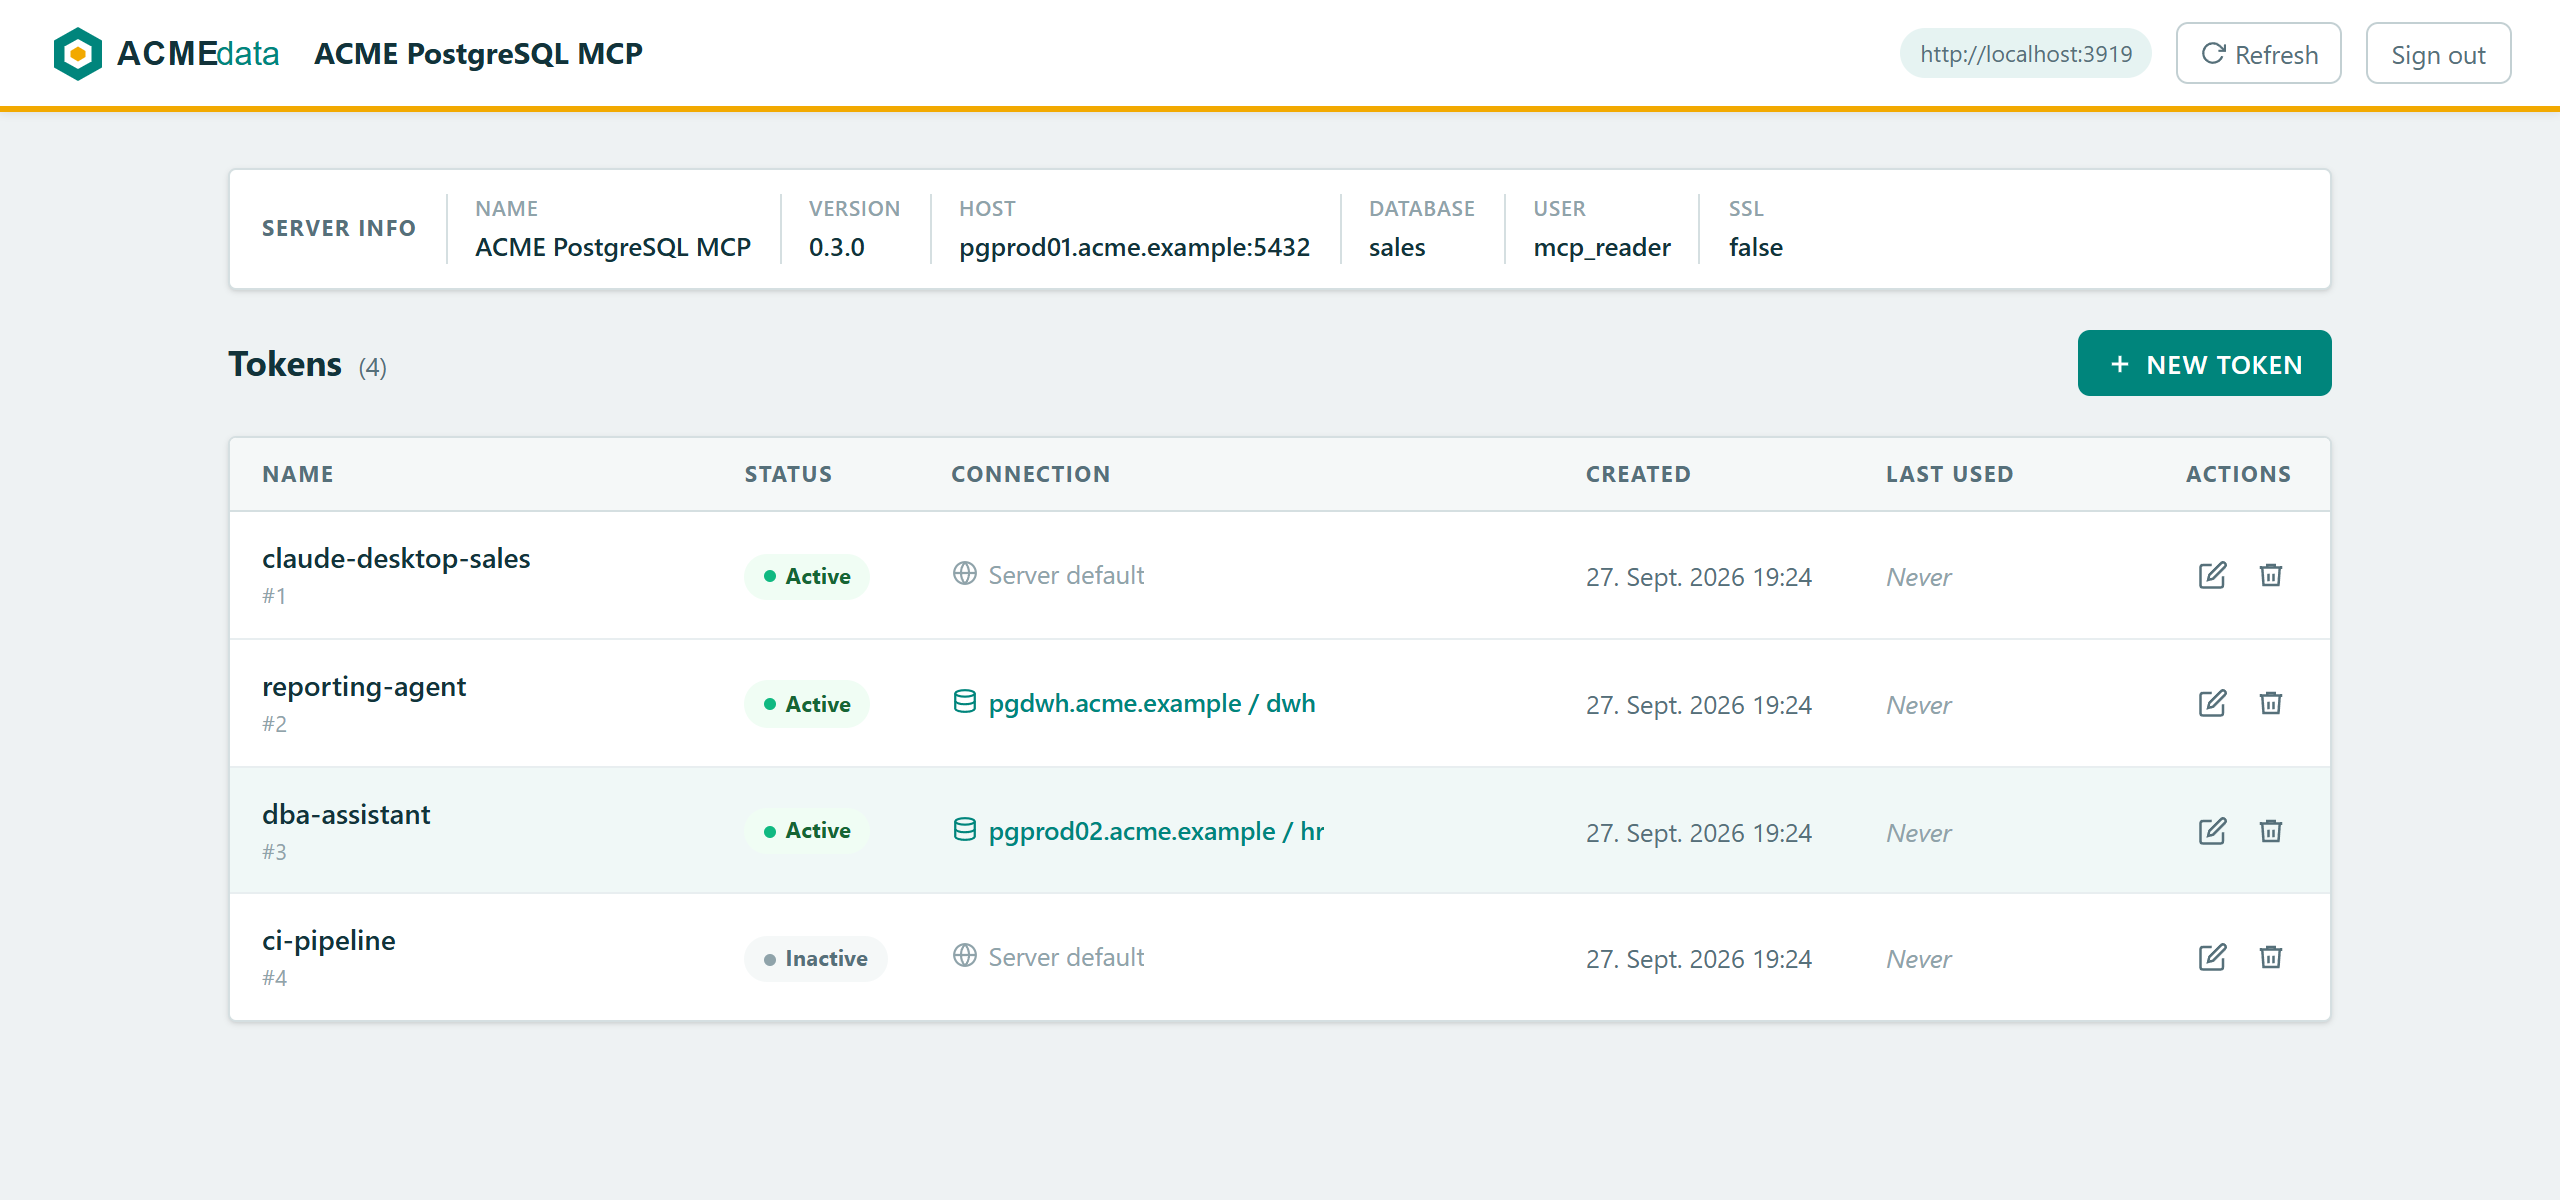
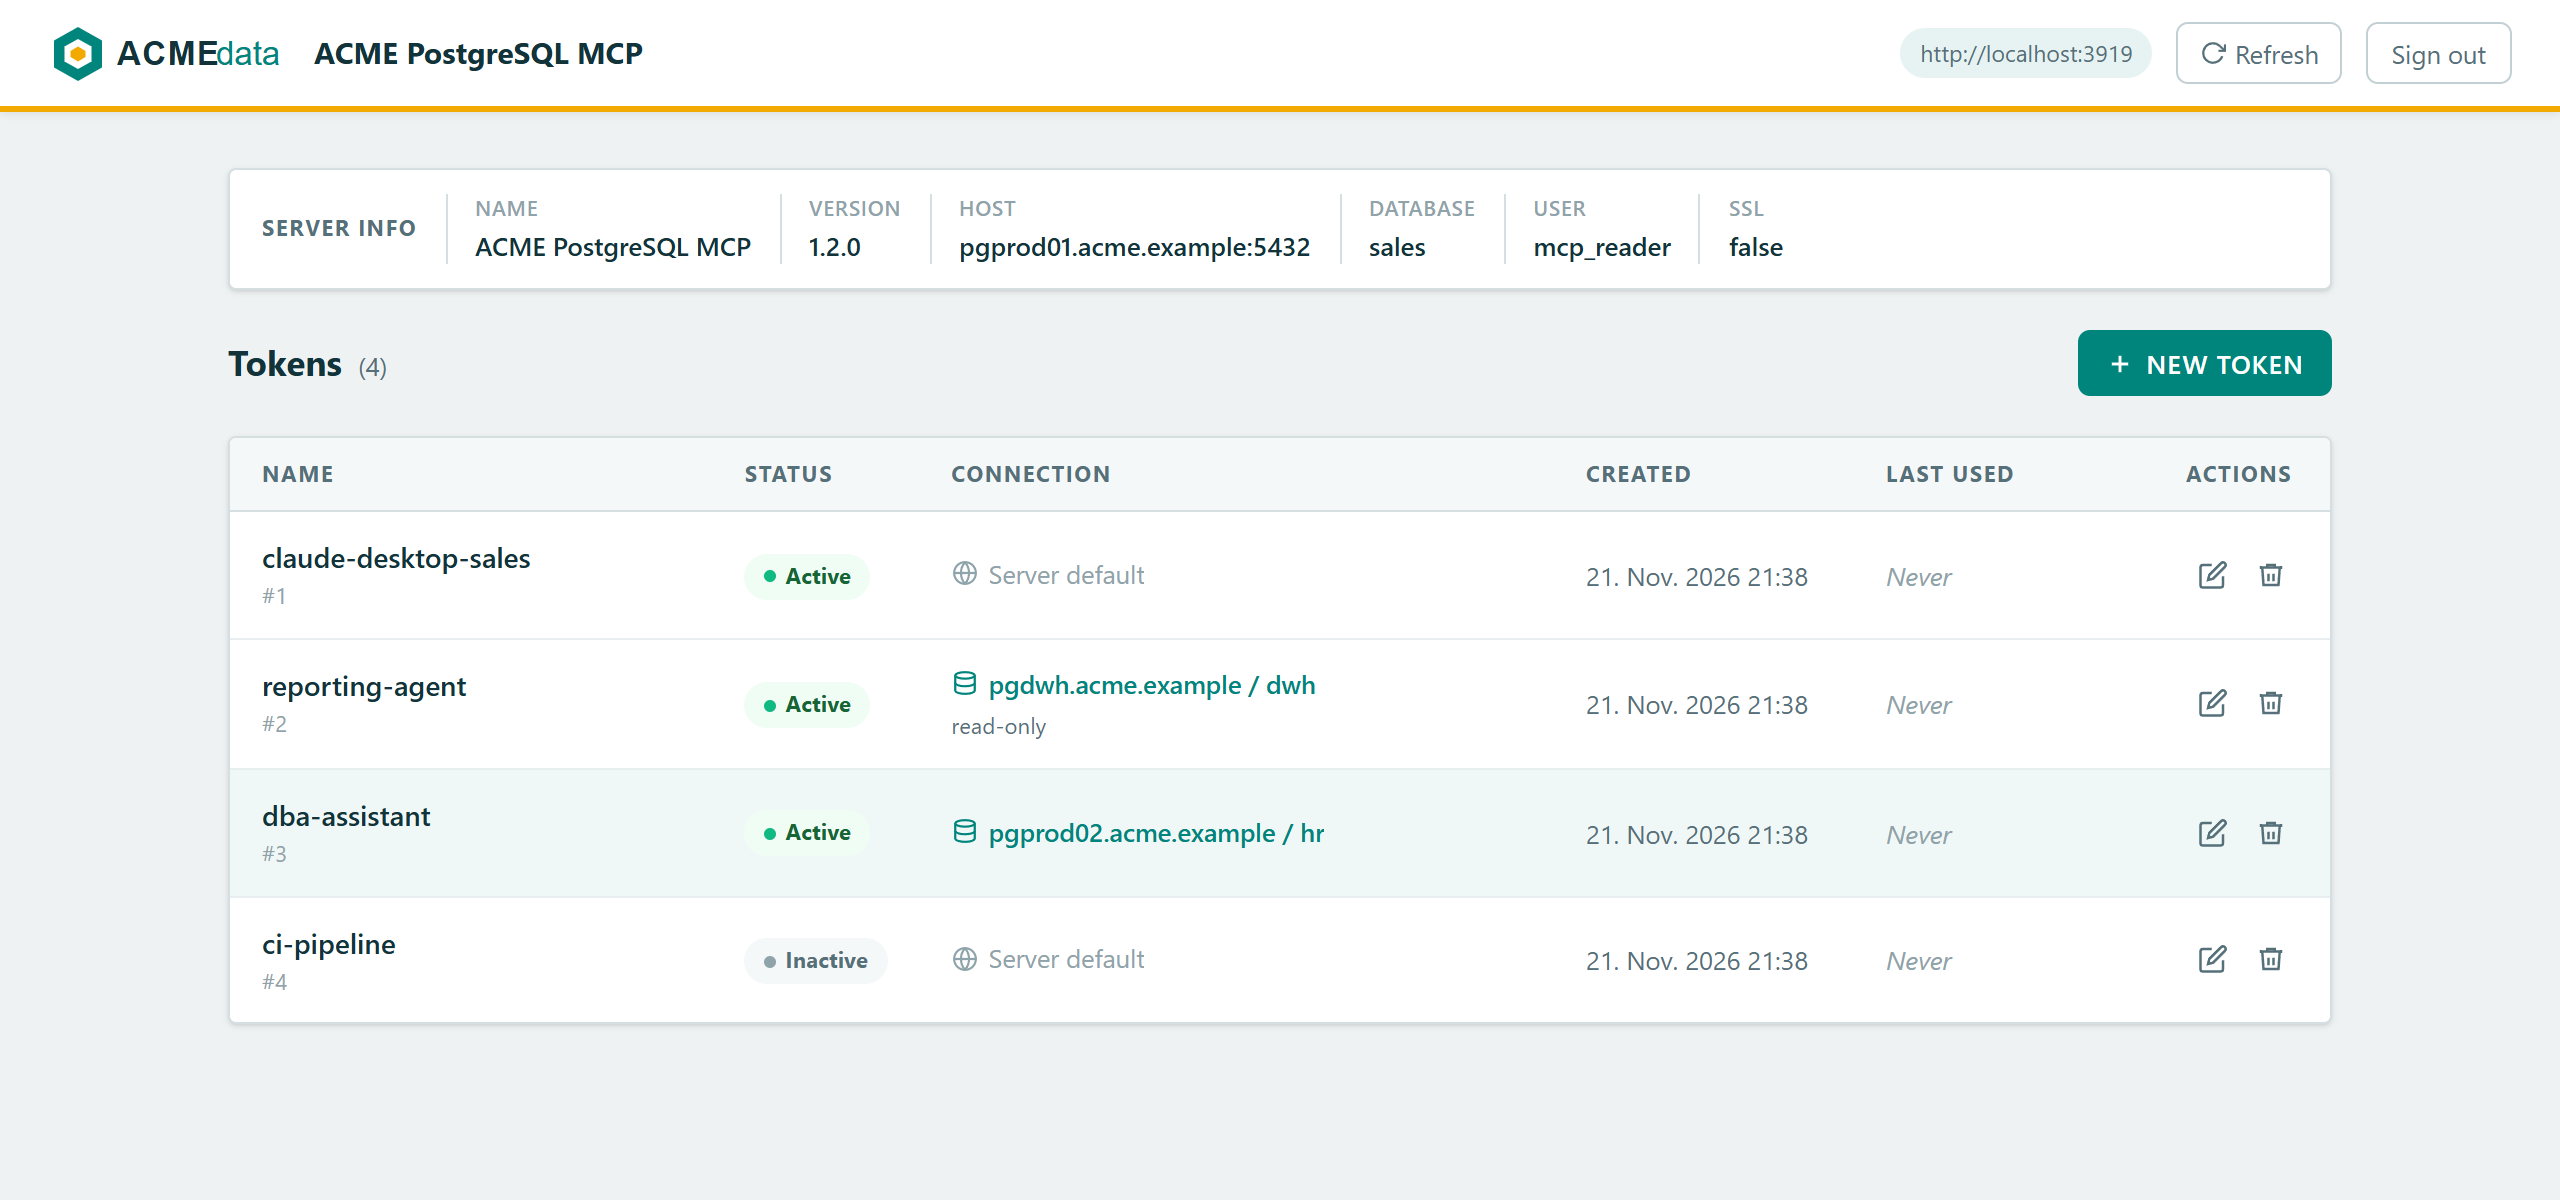
docs: current admin UI screenshots (1.2.0, read-only marker) and README bullets
Re-captured the token list and the branding screenshot from the 1.2.0 build
(version in the server info bar, read-only marker); the Admin UI bullets in
the README and the Docker Hub page now mention the read-only switch.

diff --git a/README.md b/README.md
@@ -854,15 +854,15 @@ Rules and safeguards:
 Open `http://<HOST>:3000/admin` in a browser. The web interface lets you manage tokens without using the command line or curl.
 
 - **Login**: enter the server URL and the `AUTH_TOKEN` value. Leave the token field empty if auth is disabled. With OAuth configured, *Sign in with single sign-on* logs in members of an admin group/user.
-- **OAuth assignments** (only with OAuth): map groups or e-mails to a default database connection, client-connection mode and the admin role; assignments from environment variables are listed read-only.
-- **Token list**: see all tokens with status (active/inactive), connection info, and last-used timestamp.
-- **Create token**: enter a name and optionally configure a custom PostgreSQL connection. The generated token value is shown once — copy it before closing.
-- **Edit token**: rename a token, toggle its active state, or update its database connection (the password field stays empty and keeps the stored password unless you type a new one).
+- **OAuth assignments** (only with OAuth): map groups or e-mails to a default database connection, client-connection mode, the admin role and the [read-only](#read-only-tokens-and-assignments) flag; assignments from environment variables are listed read-only.
+- **Token list**: see all tokens with status (active/inactive), connection info, markers for read-only tokens and tokens whose clients may send their own connection, and the last-used timestamp.
+- **Create token**: enter a name, optionally allow client-supplied connections, switch on *Read-only* (no `execute` tool, see [read-only](#read-only-tokens-and-assignments)) and configure a custom PostgreSQL connection. The generated token value is shown once — copy it before closing.
+- **Edit token**: rename a token, toggle its active state or *Read-only* (also for open sessions), or update its database connection (the password field stays empty and keeps the stored password unless you type a new one).
 - **Delete token**: permanently removes the token record and immediately revokes access.
 
 The session is stored in `sessionStorage` (cleared when the browser tab is closed).
 
-**Token list** — status, per-token connection (server default or own database) and last use at a glance:
+**Token list** — status, per-token connection (server default or own database), read-only marker and last use at a glance:
 
 ![Admin UI: token list](docs/images/admin-tokens.png)
 

diff --git a/DOCKERHUB.md b/DOCKERHUB.md
@@ -170,7 +170,7 @@ The performance tools work best with `GRANT pg_monitor TO <user>` and the `pg_st
 
 ## Admin UI
 
-Manage tokens and their database connections at `/admin`:
+Manage tokens, their database connections and read-only access at `/admin`:
 
 ![Admin UI: token list](https://raw.githubusercontent.com/Tommi2Day/pg-mcp-server/main/docs/images/admin-tokens.png)
 
